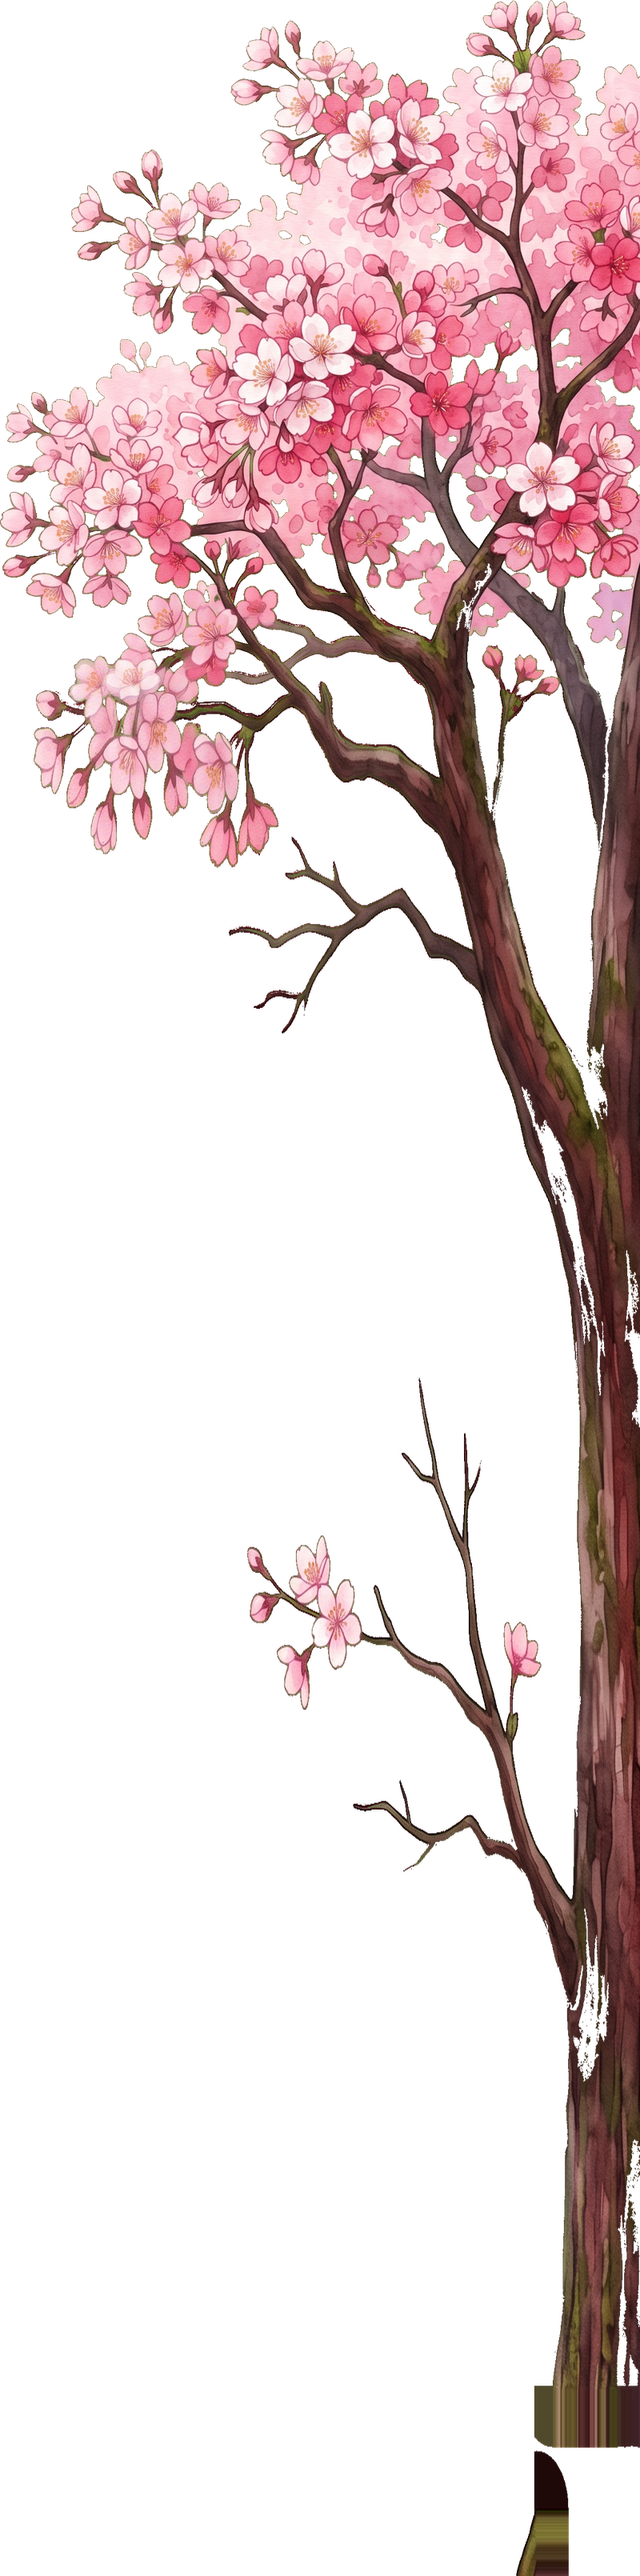
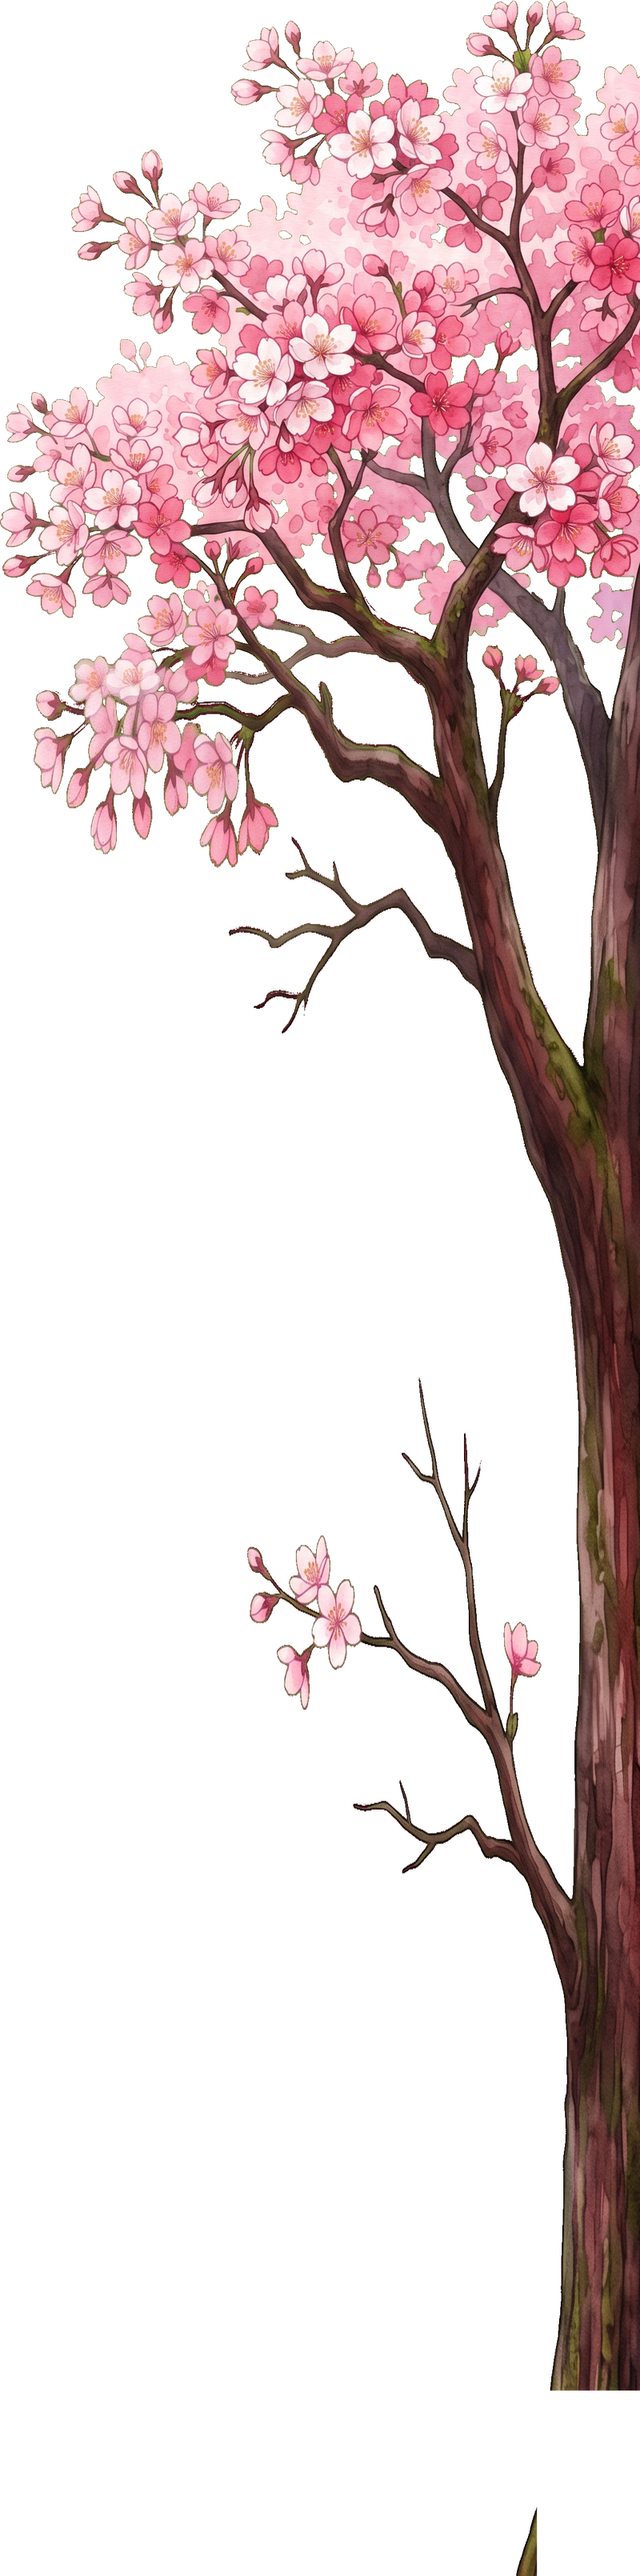
fix: 트리 raw 그대로 + trunk만 stretch (검은 박스/inpaint 검출 모두 제거)
유저: "박스 오히려 더 키웠는데? 캐노피 부분 왜 다시 원본으로 안되돌려?
Gemini_Generated_Image_sessbksessbksess 이거가 원본이잖아. 나무 기둥으로만 비율 늘려달라구"

원인: 검은 component threshold 1000 px 이 trunk 의 큰 어두운 그림자/뿌리 patch 까지 잡아 alpha=0 → "박스 더 키웠다" 처럼 보임. canopy 도 white inpaint 등으로 raw 에서 멀어짐.

수정 (rebuild_from_raw_v2.py 단순화):
1. raw 로드
2. green chroma 제거
3. 워터마크 우하단 200x200 → alpha=0
4. 엣지 5px artifact 정리
5. bbox crop
6. canopy(top 40%) raw 그대로, trunk(bottom 60%) 만 1.8x stretch
7. 다운스케일 800x3220 (모바일 GPU 친화)

제거된 것 (raw 디테일 손상시키는 코드):
- 검은 픽셀 connected component 검출/제거
- 워터마크 영역 inpaint
- 내부 hole inpaint
- white pixel inpaint
- 좌/우하단 강제 alpha=0

raw 의 모든 디테일 보존. 만약 raw 자체에 어두운 영역이 있다면 그대로 유지 (raw 그대로 보고 싶다는 유저 의도).

diff --git a/index.html b/index.html
@@ -13,7 +13,7 @@
 <script>
 // ★ 빌드 타임스탬프 — 매 index.html 업데이트 시 자동 증가. 업데이트 감지용.
 // diag: gamble revert + 업데이트 감지 진단 강화 (__BUILD_TS 선곡화면 노출)
-window.__BUILD_TS = 20260426114605;
+window.__BUILD_TS = 20260426124640;
 // ★ Firebase goOffline 부작용 — 인게임 진입 시 fbDb.goOffline() 호출하면 in-flight 중이던
 //   .set()/.once() Promise 들이 "Error: disconnect" 로 reject. 모두 fire-and-forget (결과 무관)
 //   이라 의도된 현상이지만 .catch 없이 쏘고 있어 "Uncaught (in promise)" 경고 스팸 발생.

diff --git a/scripts/rebuild_from_raw_v2.py b/scripts/rebuild_from_raw_v2.py
@@ -1,27 +1,23 @@
 """
-sakura_tree 재처리 — raw Gemini 원본에서 canopy 디테일 보존 + trunk 만 stretch.
+sakura_tree 재처리 — raw Gemini 원본 그대로 보존 + trunk 만 stretch.
 
-이전 처리:
-- inpaint 가 canopy 의 작은 hole 까지 채워 디테일 손상
-- 검은 박스 제거 threshold 30 → 양끝 모서리에 잔존
-
-새 처리 (이 스크립트):
-1. raw 에서 시작 (Gemini_Generated_Image_sessbksessbksess.png)
+처리 (최소 변경):
+1. raw 로드
 2. green chroma 제거
-3. 워터마크 우하단 200x200 mask
-4. **검은 픽셀 hybrid threshold**:
-   - 전체 영역: R,G,B<35 (보수적, trunk 색 안 잘림)
-   - 모서리 (하단 양끝 250x250): R,G,B<70 (더 넓게)
+3. 워터마크 우하단 200x200 → alpha=0
+4. 엣지 5px 정리 (artifact 방지)
 5. bbox crop
-6. **canopy 디테일 보존** — internal hole 채우지 않음
-7. 워터마크 자리 좁게 inpaint (모서리 200x200, 거리 60px)
-8. trunk stretch (split 32%, 1.8x)
-9. left 저장 + right = horizontal flip + 40px shift
+6. canopy(top 40%) 그대로, trunk(bottom 60%) 만 1.8x stretch
+7. 모바일 GPU 친화 다운스케일 (800px 폭)
+8. left 저장 + right = horizontal flip + 40px shift
+
+검은 픽셀 검출/제거 안 함 (이전 시도가 trunk 끝부분까지 잘랐음).
+워터마크 inpaint 안 함 (sky 영역 침범 위험).
+white inpaint 안 함 (raw canopy 디테일 보존).
 """
 import os
 import numpy as np
 from PIL import Image
-from scipy.ndimage import distance_transform_edt, label
 
 ROOT = r'D:\nanorhythm-assets\nanorhythm-assets'
 CONTAINER = os.path.join(ROOT, 'skins', 'neon', 'container')
@@ -29,19 +25,18 @@ RAW = os.path.join(CONTAINER, 'Gemini_Generated_Image_sessbksessbksess.png')
 DST_L = os.path.join(CONTAINER, 'sakura_tree_left.png')
 DST_R = os.path.join(CONTAINER, 'sakura_tree_right.png')
 
-SPLIT_RATIO = 0.40    # canopy + 가지 (top 40%) 그대로 보존, trunk(60%) 만 stretch
+SPLIT_RATIO = 0.40
 STRETCH = 1.8
-BLACK_THR_GLOBAL = 35
-BLACK_THR_CORNER = 70
-CORNER_BOX = 250
+TARGET_W = 800
 WM_BOX = 200
-WM_DIST = 60
 
-# === 1) Load raw + green chroma ===
+# === 1) Load raw ===
 img = Image.open(RAW).convert('RGBA')
 arr = np.array(img)
 h, w = arr.shape[:2]
 print(f'raw: {w}x{h}')
+
+# === 2) green chroma 제거 ===
 r, g, b = arr[:,:,0], arr[:,:,1], arr[:,:,2]
 green_hard = (g > 150) & (r < 120) & (b < 120)
 arr[green_hard, 3] = 0
@@ -49,64 +44,23 @@ green_edge = ~green_hard & (g > r + 10) & (g > b + 10)
 arr[green_edge, 1] = np.minimum(arr[green_edge, 0], arr[green_edge, 2])
 print(f'  green: hard={int(green_hard.sum())}, edge={int(green_edge.sum())}')
 
-# === 2) 워터마크 + edge artifact ===
+# === 3) 워터마크 우하단 + 엣지 ===
 arr[h-WM_BOX:h, w-WM_BOX:w, 3] = 0
 arr[0:5, :, 3] = 0
 arr[h-5:h, :, 3] = 0
 arr[:, 0:5, 3] = 0
 arr[:, w-5:w, 3] = 0
 
-# === 3) 검은 박스 정확한 검출 (큰 connected component 만 제거) ===
-# trunk 와 검은 박스 좌표 겹쳐서 강제 영역 투명은 trunk 잘림.
-# 검은 박스 = 직사각형 형태의 큰 connected component (>=3000 px), trunk 의 검은 디테일 = 작은 patches (skip).
-r, g, b, a = arr[:,:,0], arr[:,:,1], arr[:,:,2], arr[:,:,3]
-black_mask = (r < 60) & (g < 60) & (b < 60) & (a > 50)
-black_lbl, n_black_components = label(black_mask)
-sizes = np.bincount(black_lbl.ravel())
-# 큰 component (>=1000 px) 만 = 박스. 작은 것은 trunk 의 그림자/디테일 → 보존.
-LARGE_BLACK_THR = 1000
-target = np.zeros_like(black_mask, dtype=bool)
-removed = 0
-for li in range(1, n_black_components + 1):
-    if sizes[li] >= LARGE_BLACK_THR:
-        target |= (black_lbl == li)
-        removed += int(sizes[li])
-arr[target, 3] = 0
-print(f'  검은 박스 ({n_black_components} 컴포넌트 중 >={LARGE_BLACK_THR}px = {removed} px) 제거')
-
-img = Image.fromarray(arr, 'RGBA')
-
-# === 4) bbox crop ===
-bbox = img.getbbox()
-img = img.crop(bbox)
-print(f'  bbox: {img.size}')
-
-# (좌/우하단 강제 투명 제거 — trunk 가 우측 가장자리에 있어 강제 alpha=0 시 trunk 끝부분 잘림)
-
-# === 5) 워터마크 자리 좁게 inpaint (모서리만) ===
-arr = np.array(img)
-hh, ww = arr.shape[:2]
-mask = arr[:,:,3] > 50
-dist, (iy, ix) = distance_transform_edt(~mask, return_distances=True, return_indices=True)
-wm_region = np.zeros_like(mask, dtype=bool)
-wm_region[hh-WM_BOX:hh, 0:WM_BOX] = True
-wm_region[hh-WM_BOX:hh, ww-WM_BOX:ww] = True
-wm_target = wm_region & ~mask & (dist <= WM_DIST)
-n_wm = int(wm_target.sum())
-if n_wm > 0:
-    hy, hx = np.where(wm_target)
-    sy, sx = iy[hy, hx], ix[hy, hx]
-    arr[hy, hx, 0] = arr[sy, sx, 0]
-    arr[hy, hx, 1] = arr[sy, sx, 1]
-    arr[hy, hx, 2] = arr[sy, sx, 2]
-    arr[hy, hx, 3] = arr[sy, sx, 3]
-print(f'  WM 모서리 inpaint: {n_wm} px')
-
-# === 6) 알파 threshold ===
+# === 4) 알파 threshold (엣지 크리스프) ===
 arr[:,:,3] = np.where(arr[:,:,3] < 40, 0, arr[:,:,3]).astype(np.uint8)
 img = Image.fromarray(arr, 'RGBA')
 
-# === 7) trunk stretch (split 32%) ===
+# === 5) bbox crop ===
+bbox = img.getbbox()
+img = img.crop(bbox)
+print(f'  bbox crop: {img.size}')
+
+# === 6) trunk stretch ===
 W, H = img.size
 split_y = int(H * SPLIT_RATIO)
 top = img.crop((0, 0, W, split_y))
@@ -117,16 +71,15 @@ new_h = split_y + new_bot_h
 final = Image.new('RGBA', (W, new_h), (0, 0, 0, 0))
 final.paste(top, (0, 0))
 final.paste(bot_stretched, (0, split_y))
+print(f'  stretched: {W}x{new_h} ({(new_h/H):.2f}x)')
 
-# === 8) 모바일 GPU 친화적으로 다운스케일 ===
-# 1211x4875 = 24MB GPU 텍스처. 모바일에서 메모리 부족. 800 폭으로 줄임 (~10MB).
-TARGET_W = 800
+# === 7) 다운스케일 ===
 scale = TARGET_W / W
 target_h = int(new_h * scale)
 final = final.resize((TARGET_W, target_h), Image.LANCZOS)
-print(f'  downscale: {W}x{new_h} -> {TARGET_W}x{target_h}')
+print(f'  downscale: {TARGET_W}x{target_h}')
 
-# === 9) 저장 ===
+# === 8) 저장 ===
 final.save(DST_L, optimize=True, compress_level=9)
 print(f'left: {final.size}, {os.path.getsize(DST_L)/1024:.0f} KB')
 
